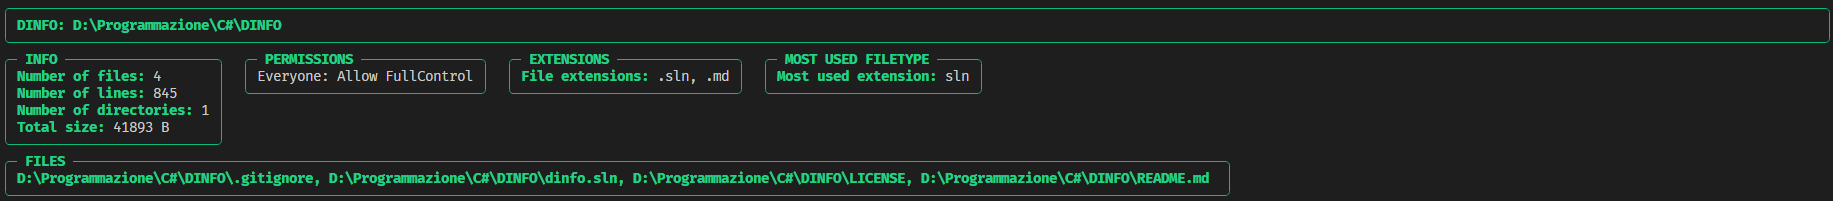
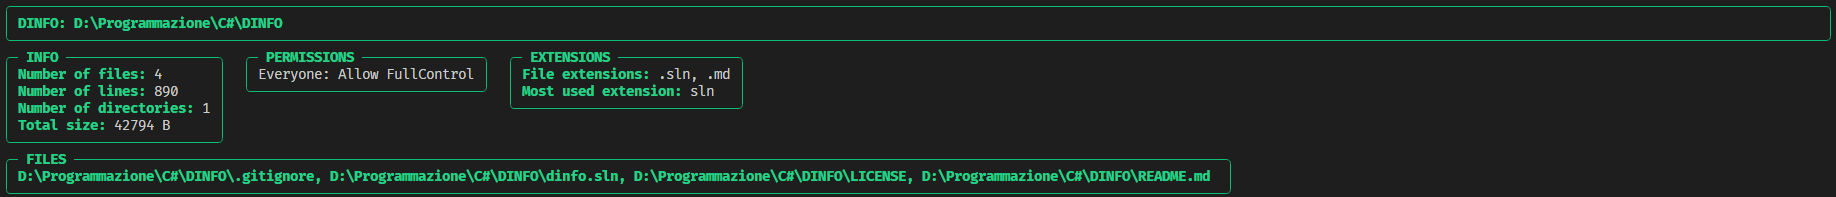
feat: moved the most used extension to the extension panel

diff --git a/src/tui/Program.cs b/src/tui/Program.cs
@@ -52,29 +52,19 @@ public static class Program
 
         var fileTypesNoDupes = GlobalsUtils.FileTypes.Distinct().ToList();
 
-        var extensionsPanel = new Panel(
-            $"[bold green]File extensions:[/] {string.Join(", ", fileTypesNoDupes)}");
-
-        extensionsPanel.Border = BoxBorder.Rounded;
-        extensionsPanel.BorderStyle = new Style(Color.Green);
-        extensionsPanel.Header = new PanelHeader("[bold green] EXTENSIONS [/]");
-
-        /*
-         *  MOST USED EXTENSIONS
-         */
-
         var mostUsedExtension = GlobalsUtils.FileTypes
             .GroupBy(x => x)
             .OrderByDescending(g => g.Count())
             .Select(g => g.Key)
             .FirstOrDefault() ?? "N/A";
 
-        var mostUsedExtensionPanel = new Panel(
+        var extensionsPanel = new Panel(
+            $"[bold green]File extensions:[/] {string.Join(", ", fileTypesNoDupes)}\n" +
             $"[bold green]Most used extension:[/] {mostUsedExtension.TrimStart('.')}");
 
-        mostUsedExtensionPanel.Border = BoxBorder.Rounded;
-        mostUsedExtensionPanel.BorderStyle = new Style(Color.Green);
-        mostUsedExtensionPanel.Header = new PanelHeader("[bold green] MOST USED FILETYPE [/]");
+        extensionsPanel.Border = BoxBorder.Rounded;
+        extensionsPanel.BorderStyle = new Style(Color.Green);
+        extensionsPanel.Header = new PanelHeader("[bold green] EXTENSIONS [/]");
 
         /*
          *  GRID
@@ -85,9 +75,8 @@ public static class Program
         infoColumns.AddColumn();
         infoColumns.AddColumn();
         infoColumns.AddColumn();
-        infoColumns.AddColumn();
 
-        infoColumns.AddRow(infoPanel, permissionPanel, extensionsPanel, mostUsedExtensionPanel);
+        infoColumns.AddRow(infoPanel, permissionPanel, extensionsPanel);
 
         AnsiConsole.Write(infoColumns);
 
